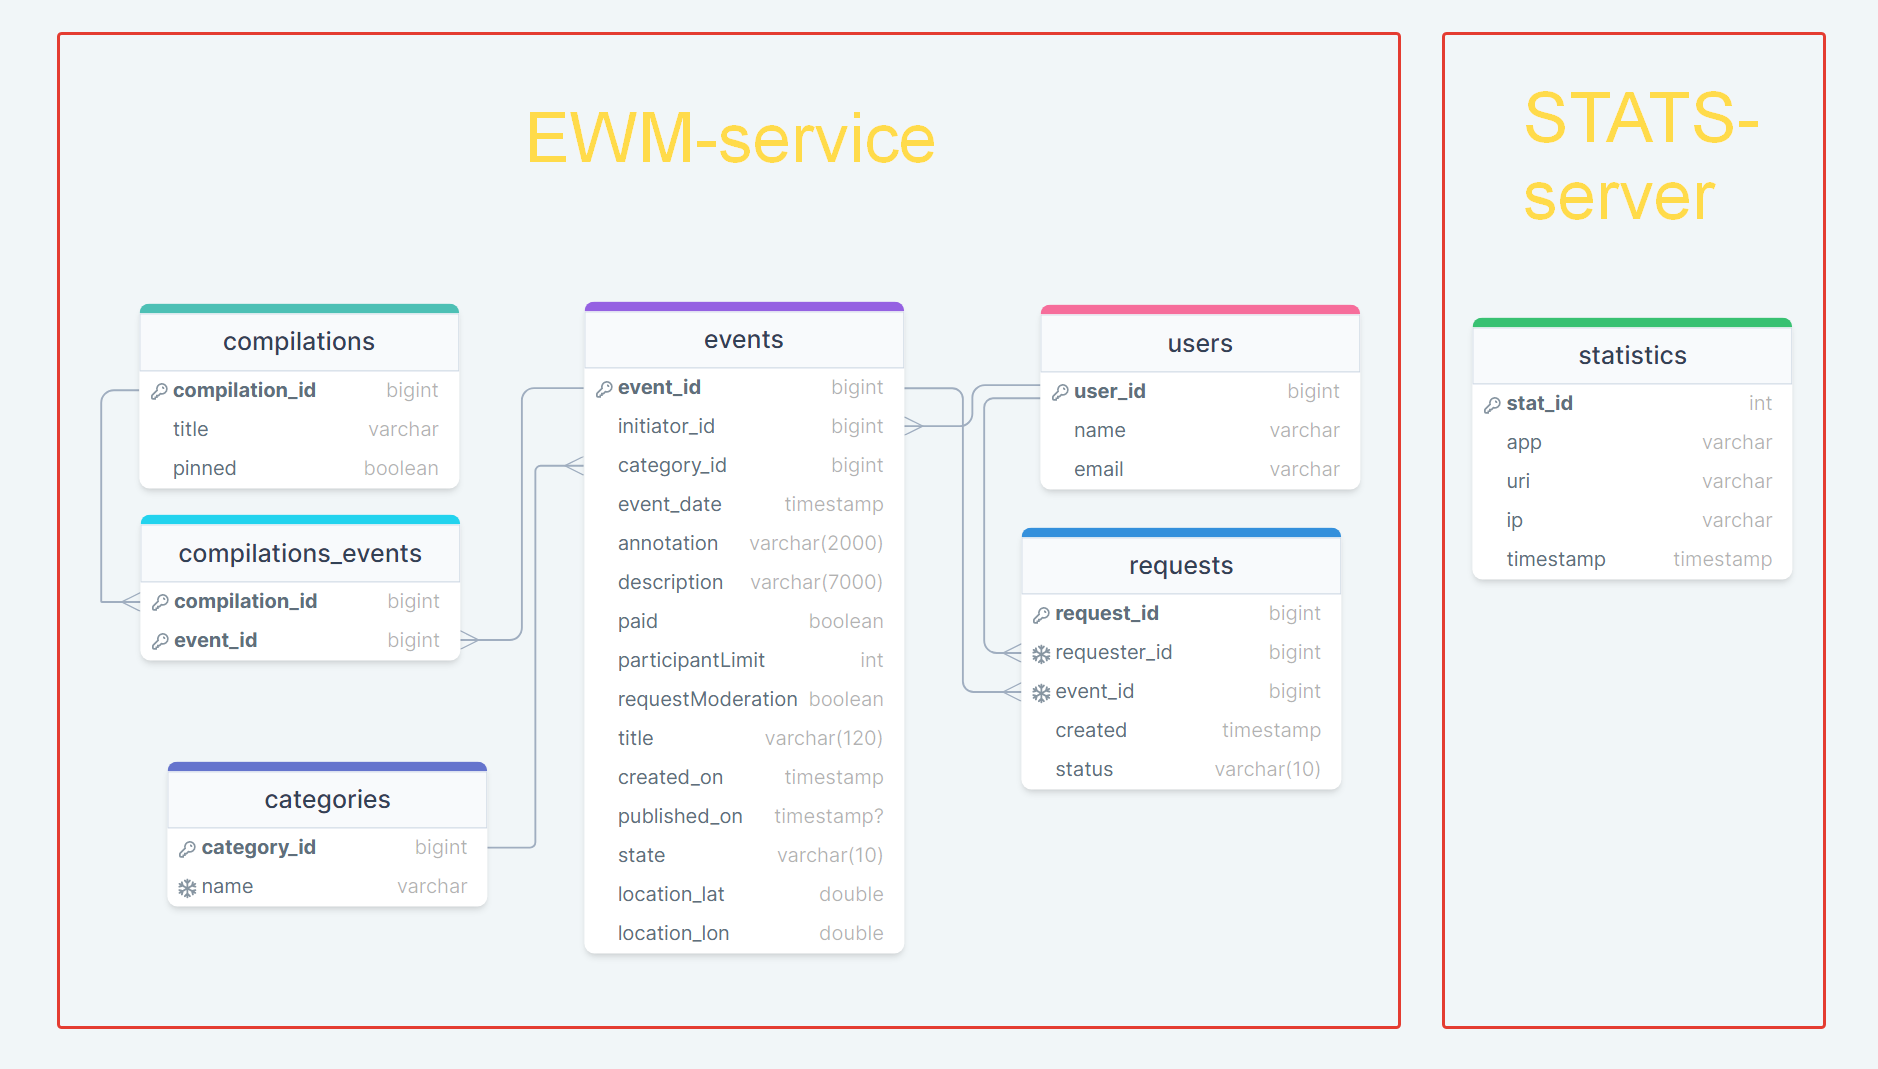
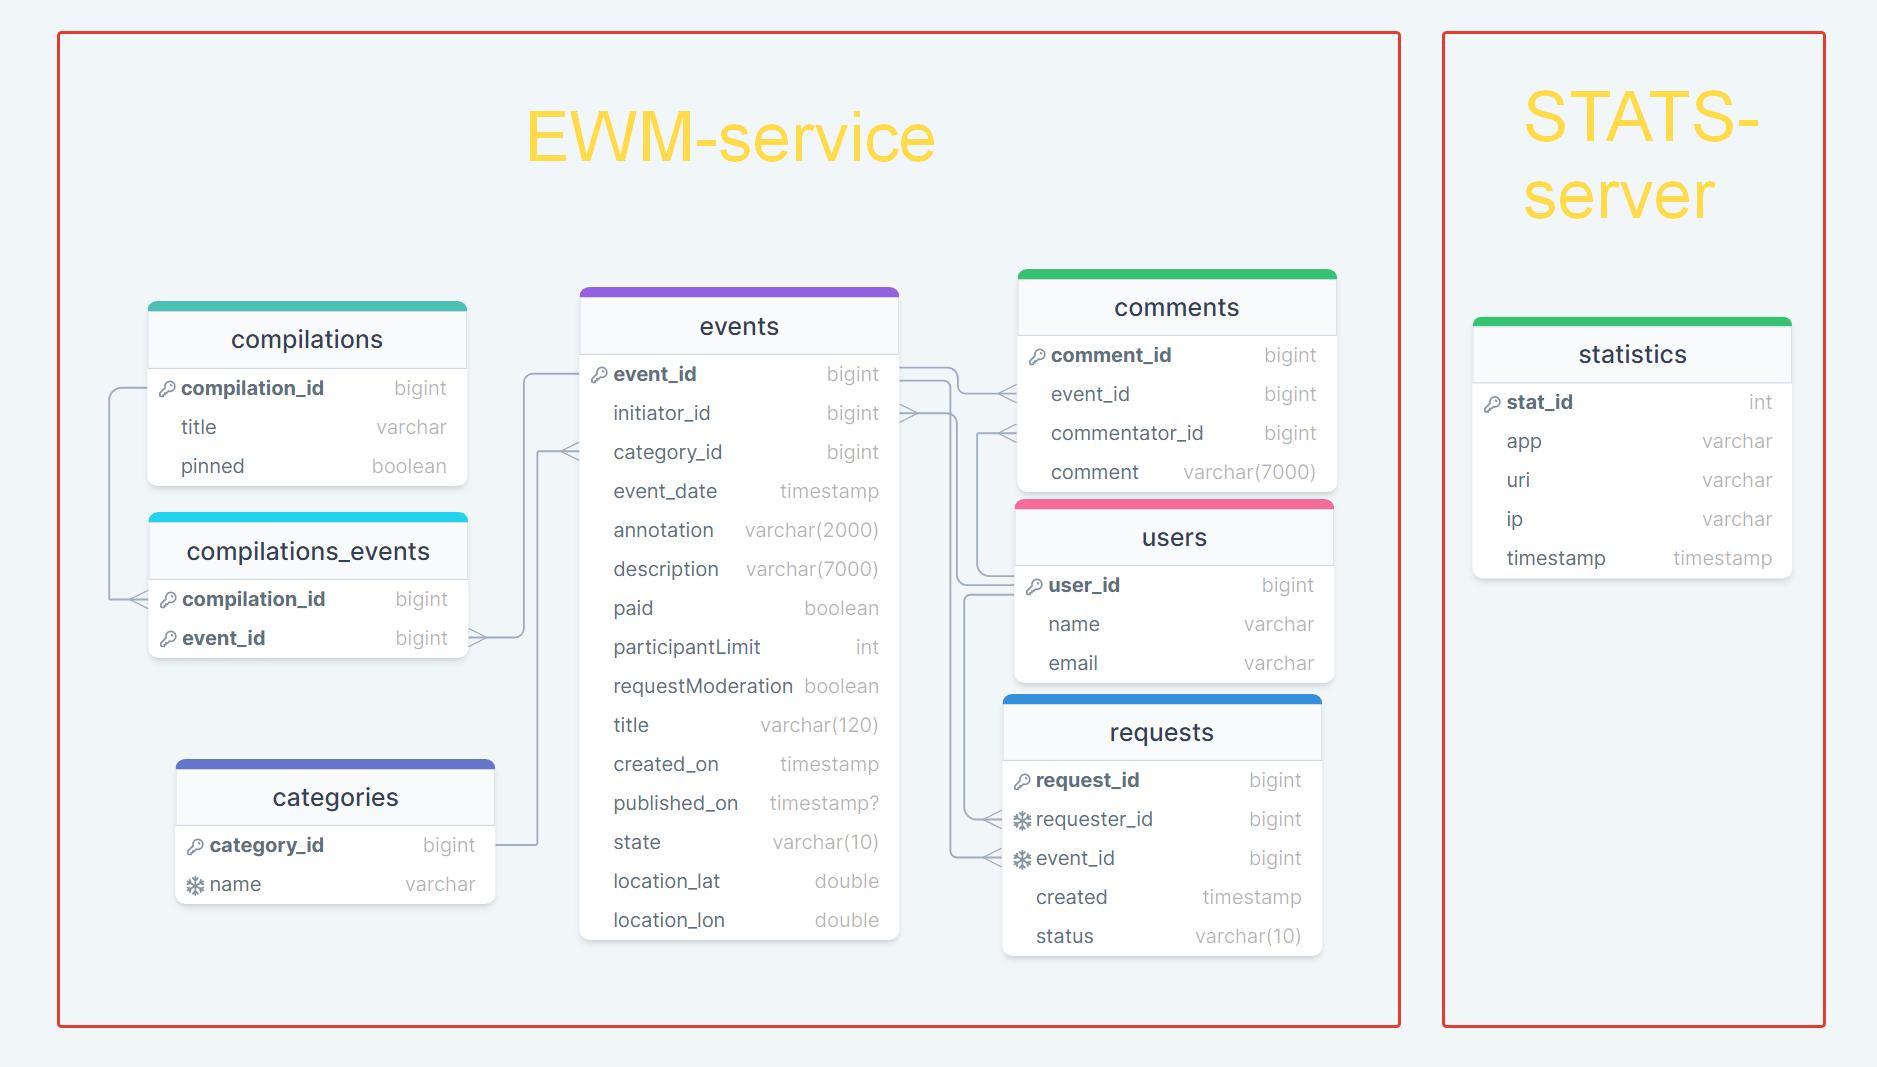
Graduate work. Feature. Fix schema.

diff --git a/ewm-service/src/main/java/ru/practicum/ewmservice/service/CommentService.java b/ewm-service/src/main/java/ru/practicum/ewmservice/service/CommentService.java
@@ -2,6 +2,7 @@ package ru.practicum.ewmservice.service;
 
 import com.querydsl.core.types.dsl.BooleanExpression;
 import lombok.RequiredArgsConstructor;
+import org.springframework.dao.EmptyResultDataAccessException;
 import org.springframework.data.domain.Pageable;
 import org.springframework.data.domain.Sort;
 import org.springframework.stereotype.Service;
@@ -89,7 +90,12 @@ public class CommentService {
 
     @Transactional
     public void removeByAdmin(Long commentId) {
-        commentRepository.delete(getCommentById(commentId));
+        try {
+            commentRepository.deleteById(commentId);
+        } catch (EmptyResultDataAccessException e) {
+            throw new ValidationNotFoundException(String
+                    .format("Comment with id=%s not found.", commentId));
+        }
     }
 
     private Comment getComment(Long commentId) {
